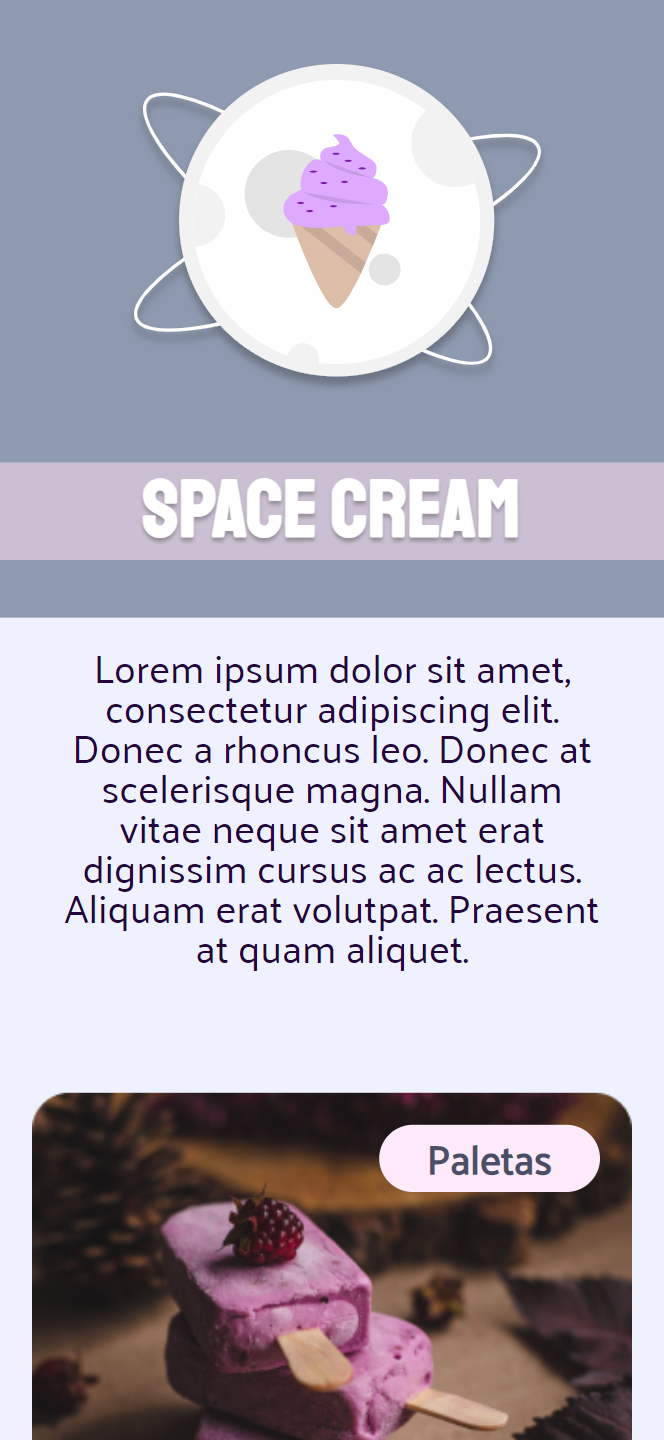
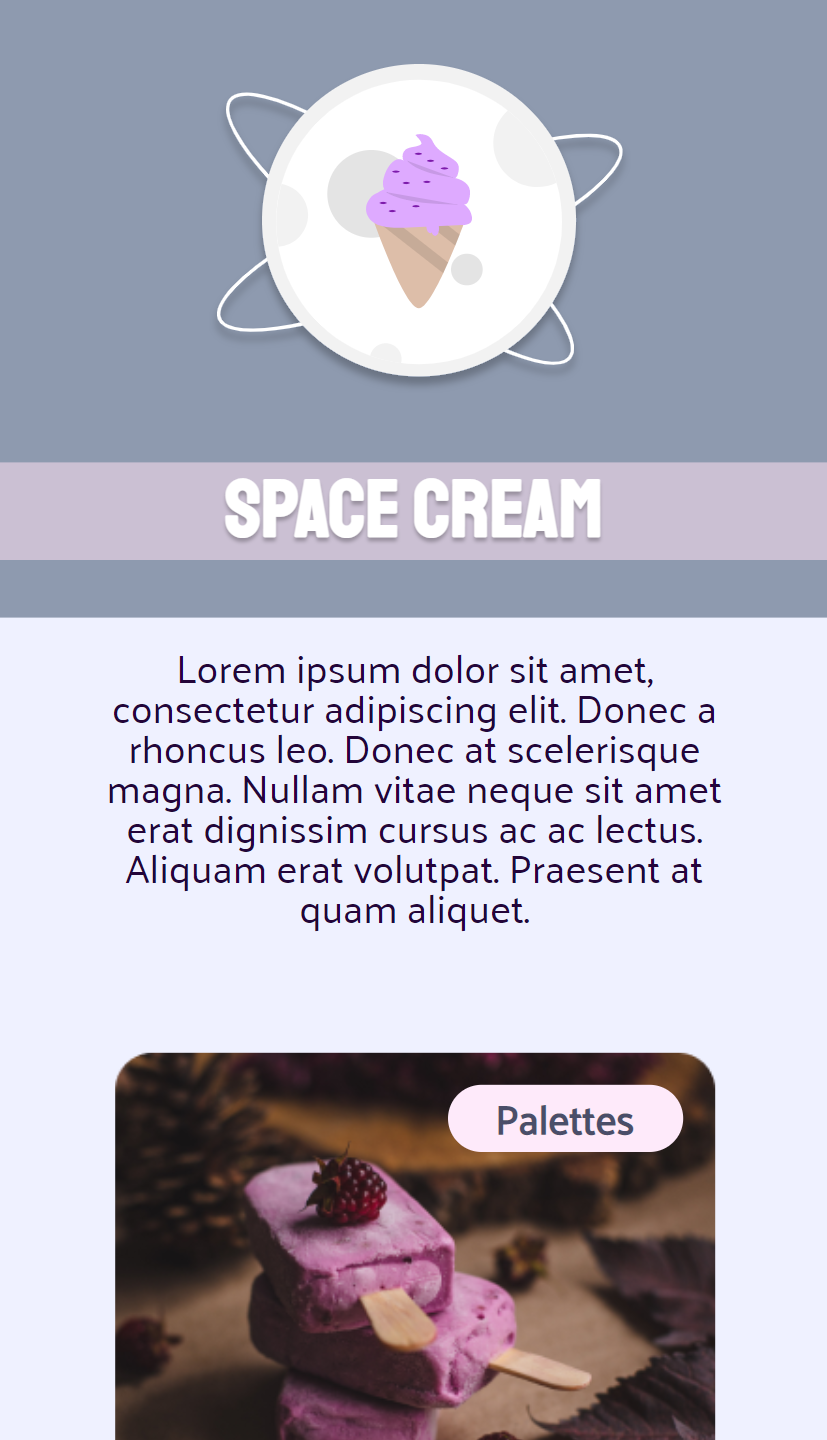
Translation of labels in the HTML file.

diff --git a/project-05/challenge-02/index.html b/project-05/challenge-02/index.html
@@ -11,11 +11,11 @@
 
 <body>
   <header>
-    <img src="./images/Logo.svg" alt="Desenho de um sorvete de casquinha.">
+    <img src="./images/Logo.svg" alt="Drawing of an ice cream cone.">
     <h1>Space cream</h1>
   </header>
   <aside>
-    <img src="./images/Logo.svg" alt="Desenho de um sorvete de casquinha.">
+    <img src="./images/Logo.svg" alt="Drawing of an ice cream cone.">
     <h1>Space cream</h1>
     <p>
       Lorem ipsum dolor sit amet, consectetur adipiscing elit. Donec a rhoncus leo. Donec at scelerisque magna. Nullam
@@ -31,41 +31,41 @@
     <section class="menu">
       <div class="card">
         <img src="./images/sorvete1.png"
-          alt="Foto de três sorvetes de palito e cor lilás, um acima do outro, com framboesas em cima e ao redor indicando o sabor, e folhas secas e pinhos próximos para compor o cenário.">
-        <h2>Paletas</h2>
+          alt="Photo of three lilac-colored stick ice creams, one above the other, with raspberries on top and around indicating the flavor, and nearby dried leaves and pine trees to compose the scene.">
+        <h2>Palettes</h2>
       </div>
 
       <div class="card hidden">
         <img src="./images/sorvete1.png"
-          alt="Foto de três sorvetes de palito e cor lilás, um acima do outro, com framboesas em cima e ao redor indicando o sabor, e folhas secas e pinhos próximos para compor o cenário.">
-        <h2>Paletas</h2>
+          alt="Photo of three lilac-colored stick ice creams, one above the other, with raspberries on top and around indicating the flavor, and nearby dried leaves and pine trees to compose the scene.">
+        <h2>Palettes</h2>
       </div>
 
       <div class="card">
         <img src="./images/sorvete2.png"
-          alt="Foto de um pote de vidro com sorvete de cor lilás e vários pedaços de frutas cortadas caindo em cima do pote.">
+          alt="Photo of a glass jar with lilac-colored ice cream and several pieces of cut fruit falling on top of the jar.">
         <h2>Shakes</h2>
       </div>
 
       <div class="card">
-        <img src="./images/sorvete3.png" alt="Foto de uma colher com sorvete de cor lilás.">
-        <h2>Massas</h2>
+        <img src="./images/sorvete3.png" alt="Photo of a spoon with lilac-colored ice cream.">
+        <h2>Pasta</h2>
       </div>
 
       <div class="card">
         <img src="./images/sorvete4.png"
-          alt="Foto de sorvete de palito de dois sabores, uma metade coberta de flocos de grãos naturais.">
-        <h2>Picolés</h2>
+          alt="Photo of two-flavored stick ice cream, one half covered in natural grain flakes.">
+        <h2>Popsicle's</h2>
       </div>
 
       <div class="card hidden">
         <img src="./images/sorvete4.png"
-          alt="Foto de sorvete de palito de dois sabores, uma metade coberta de flocos de grãos naturais.">
-        <h2>Picolés</h2>
+          alt="Photo of two-flavored stick ice cream, one half covered in natural grain flakes.">
+        <h2>Popsicle's</h2>
       </div>
     </section>
     <footer>
-      fale concosco no instagram <a href="#">@space_cream</a>
+      talk to us on instagram <a href="#">@space_cream</a>
     </footer>
   </main>
 </body>
